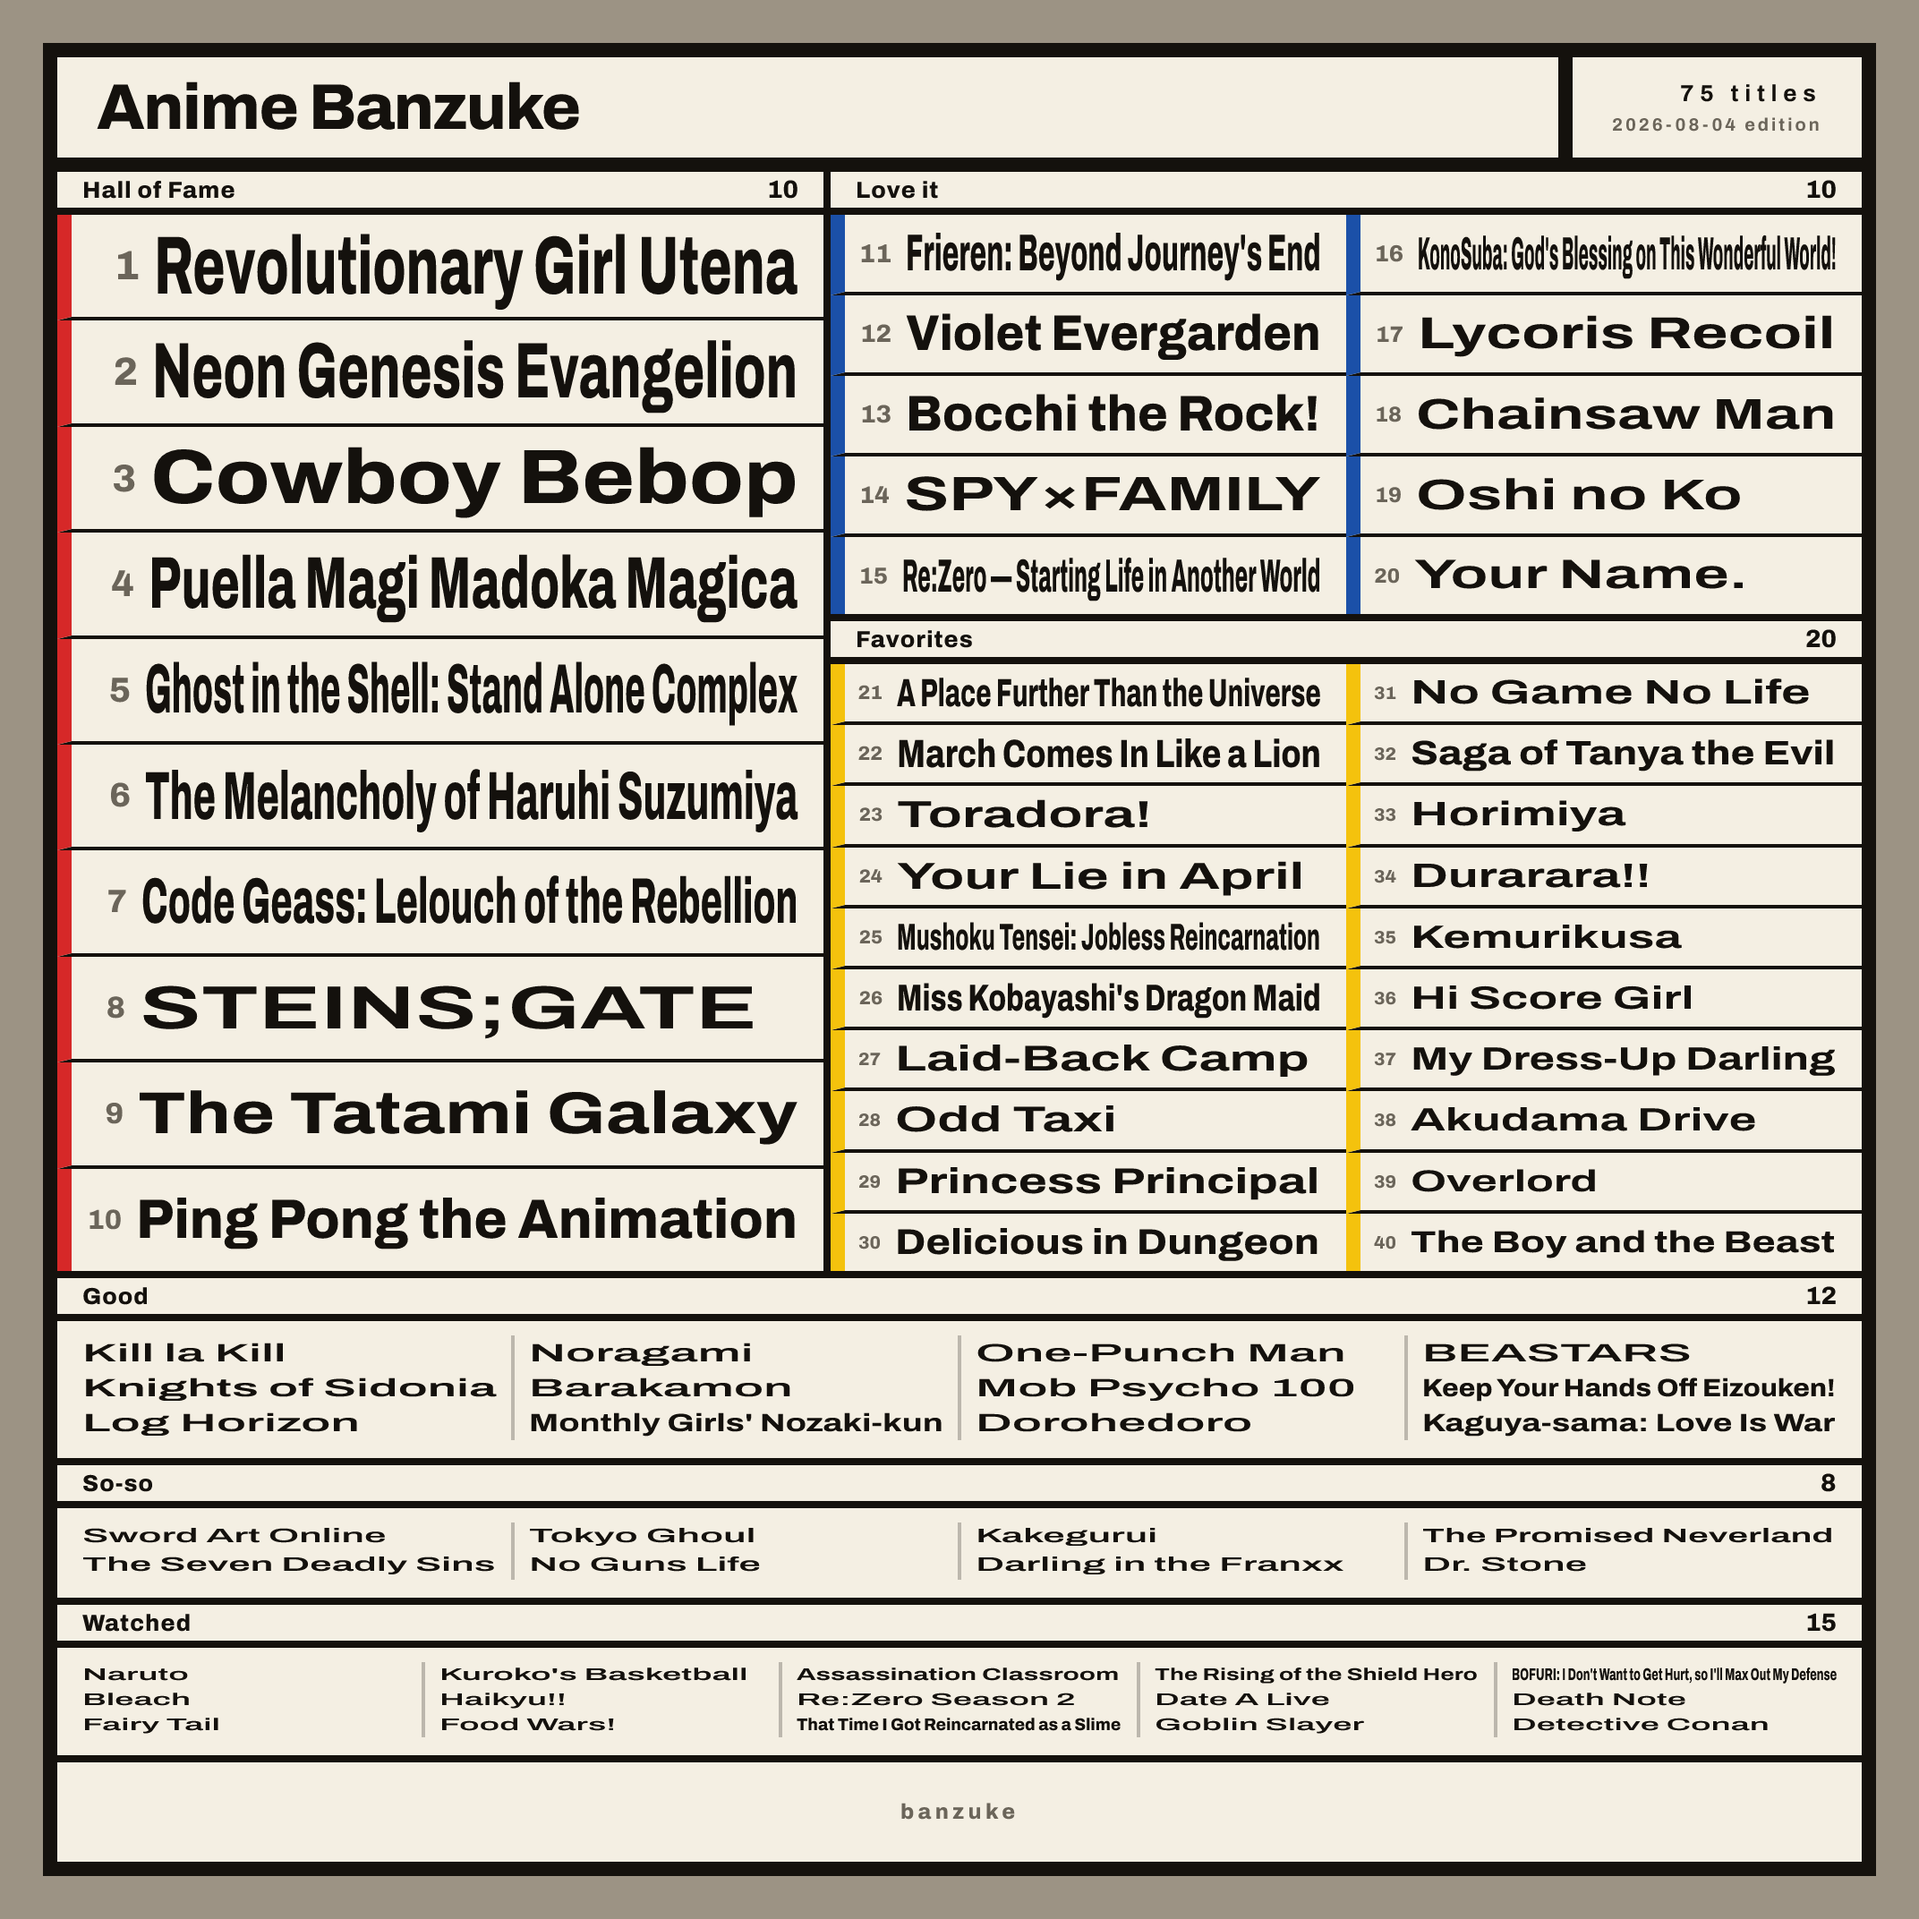
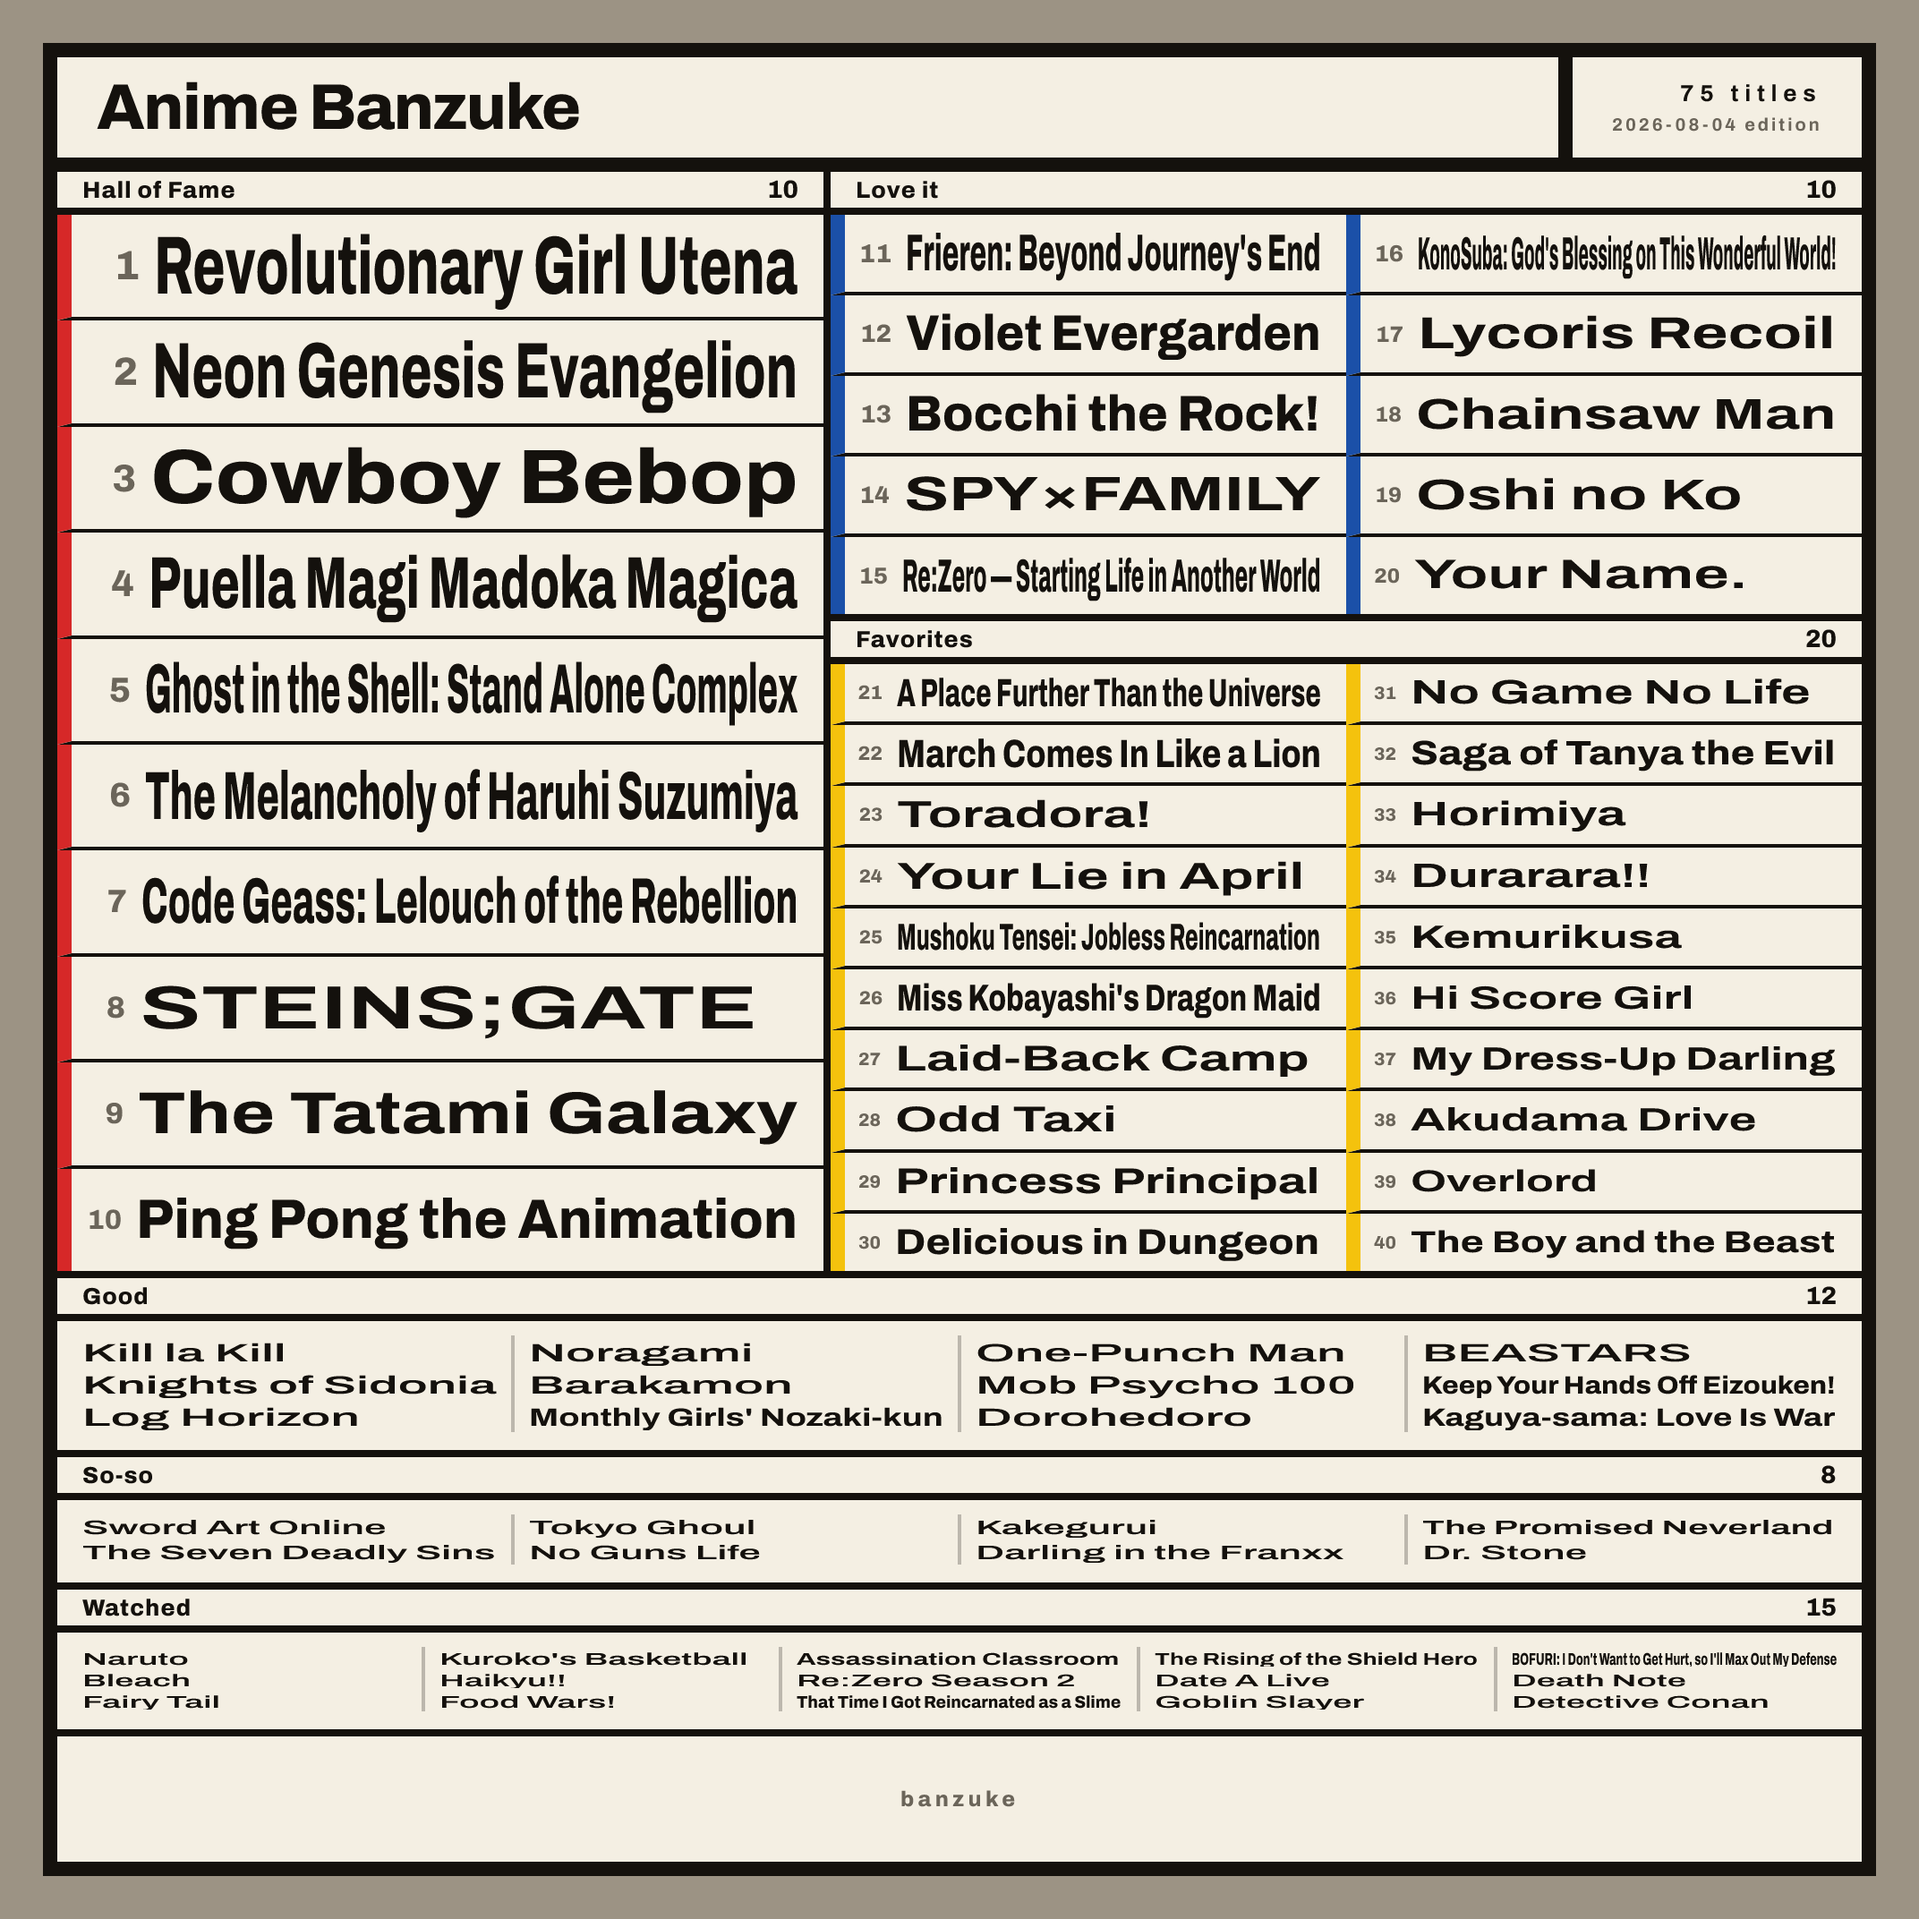
fix(template): wall line boxes, column balance, featured-only band (#1)
Three layout bugs found while building a real 388-title Japanese sheet.

1. A wall item could take two line boxes. fitSpan squashes with scaleX, which
   leaves the span's layout width untouched, so a shrunk title still overflows
   its column. The box then grew to a second line: a blank line mid-column and
   columns ending at ragged heights. On the 388-title sheet this cost 147px of
   dead space. Wall items are now pinned to one line (height + the overflow:hidden
   that was already there).

2. The wall dealt its remainder into the last column: ceil(n / cols) per column
   makes 128 over 9 columns 15x8 + 8, ending the wall on a stub. The remainder is
   now spread one row at a time across the leading columns. The tallest column is
   still ceil(n / cols), so height math built on that is unaffected.

3. A featured tier with no ranked tier lost its whole band. bandH was derived
   from the ranked tiers' weighted row count, which is 0 when there are none, so
   the band collapsed to 0px, the header overlapped the next tier and every
   featured row vanished off the sheet. It now falls back to the featured
   column's own height.

samples/ carries the same wall code, so (1) is fixed in bauhaus.mjs and (2) in
kit.mjs's shared columns(); bauhaus's ranked tier now walks the size ramp
alongside the chunks so the two cannot drift apart on unequal columns.
anime/board/crt.png are regenerated.

Changed region(s): [[0.0312, 0.7188, 0.9688, 0.9688]]

diff --git a/skills/banzuke/SKILL.md b/skills/banzuke/SKILL.md
@@ -112,6 +112,11 @@ A banzuke is supposed to be densely filled. Empty space is a failure.
 - **Stretched until it looks empty** → lower `stretch` there (default: rows 1.5 / wall 2)
 - **Overflowing or clipped** → fitSpan's `avail` disagrees with the real layout width. Check that
   you subtracted padding, spine, number width and rules
+- **A blank line appears after a squashed title, or a column ends taller than its neighbours** →
+  scaleX shrinks what is *drawn*, not what is *laid out*, so a squashed span still occupies its
+  natural width and its box can take a second line box. **Any box holding a fitSpan needs a fixed
+  height** — an explicit `height` (the wall rows do this) or a flex context that pins it
+  (`flex:1` + `min-height:0`, which the numbered rows do)
 - To add tracking, **pass it to fitSpan's `letterSpacing` option**
   (inheriting it from an outer style desyncs it from the measurement, which is what causes squashing and overflow)
 
